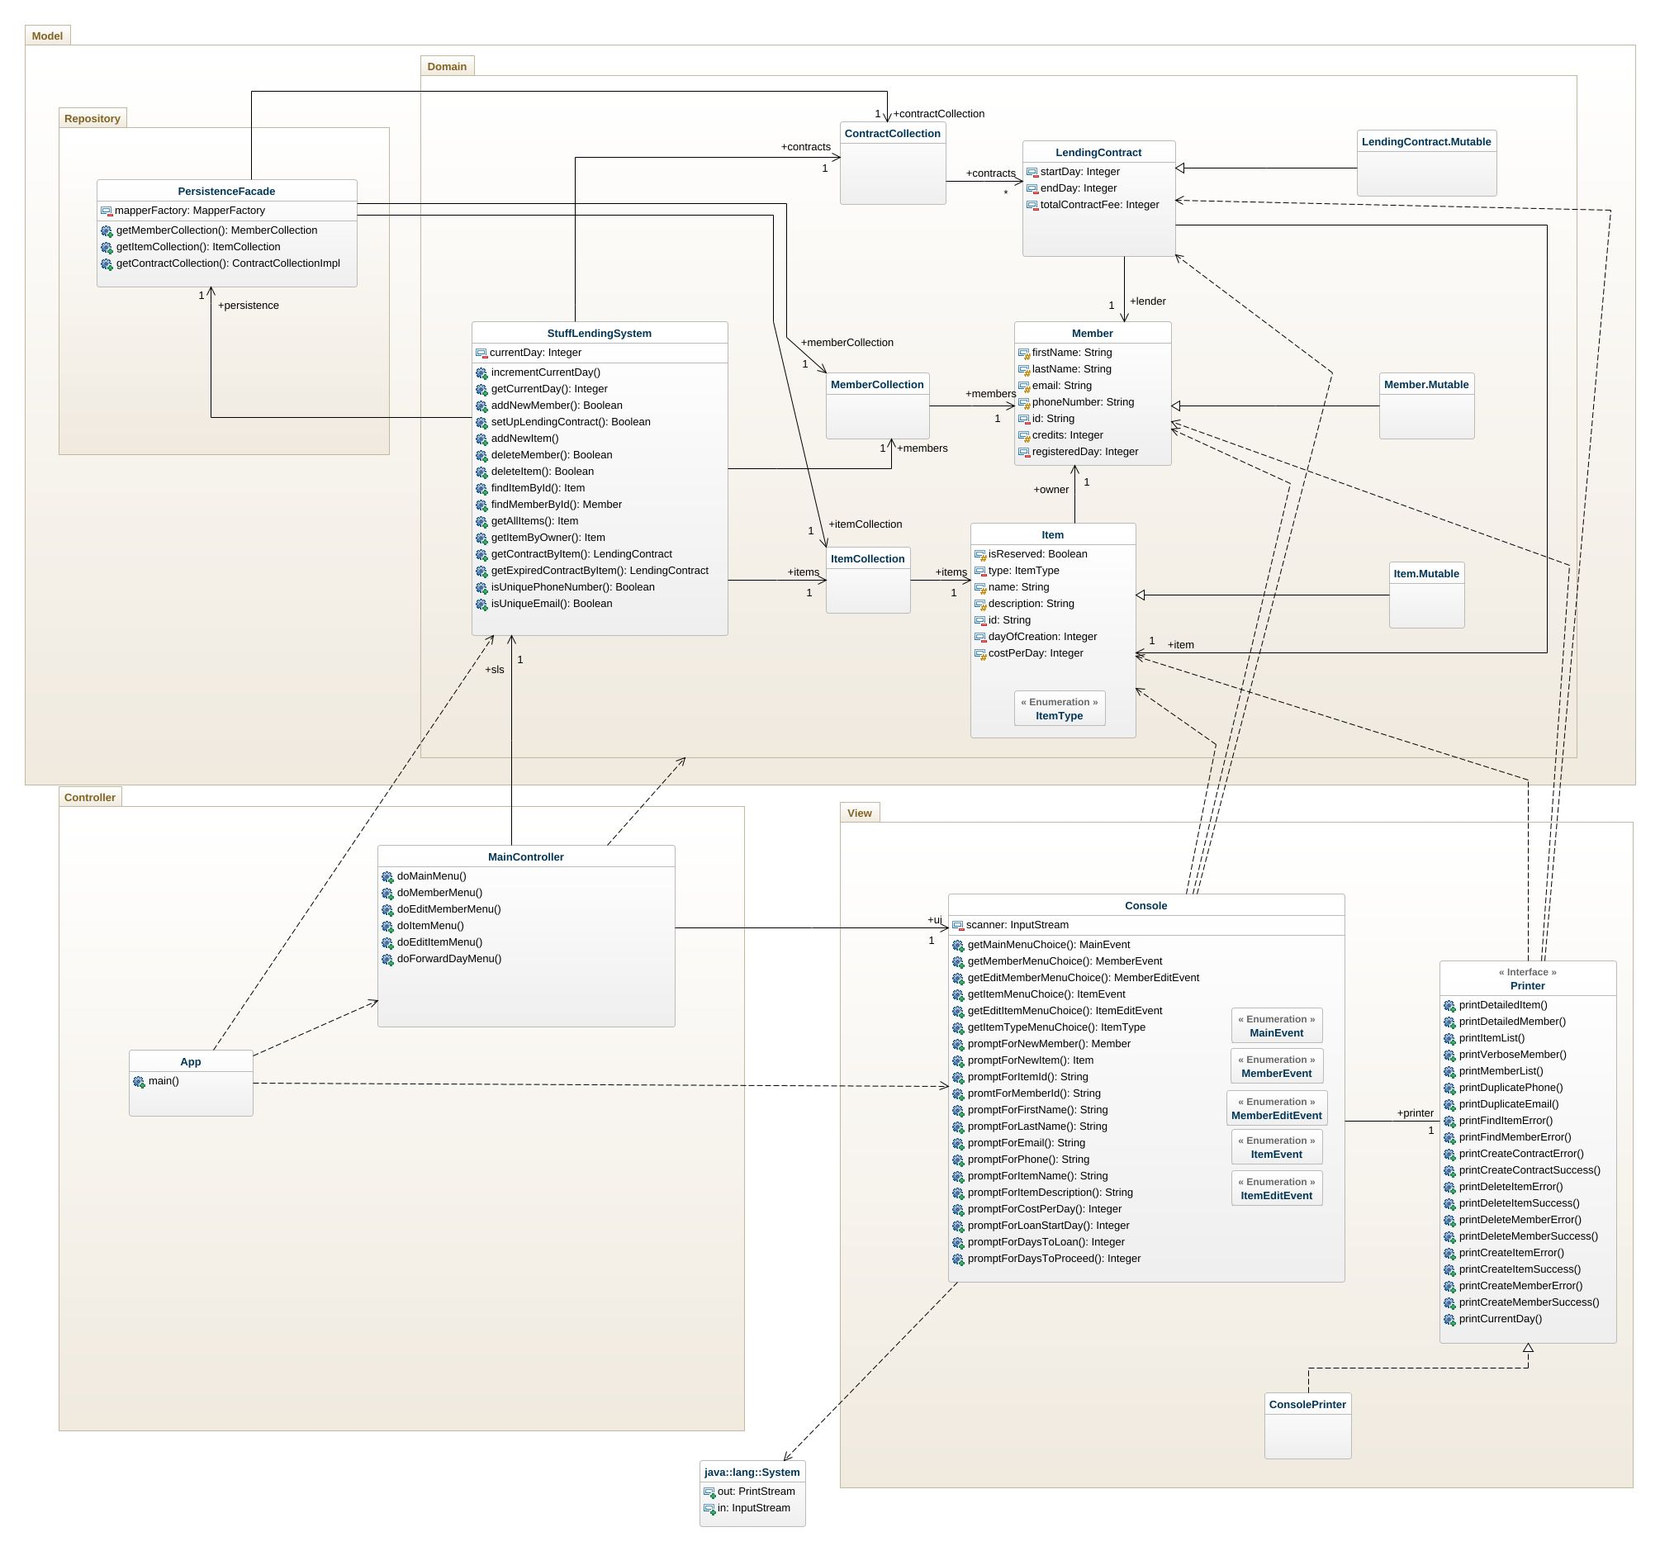
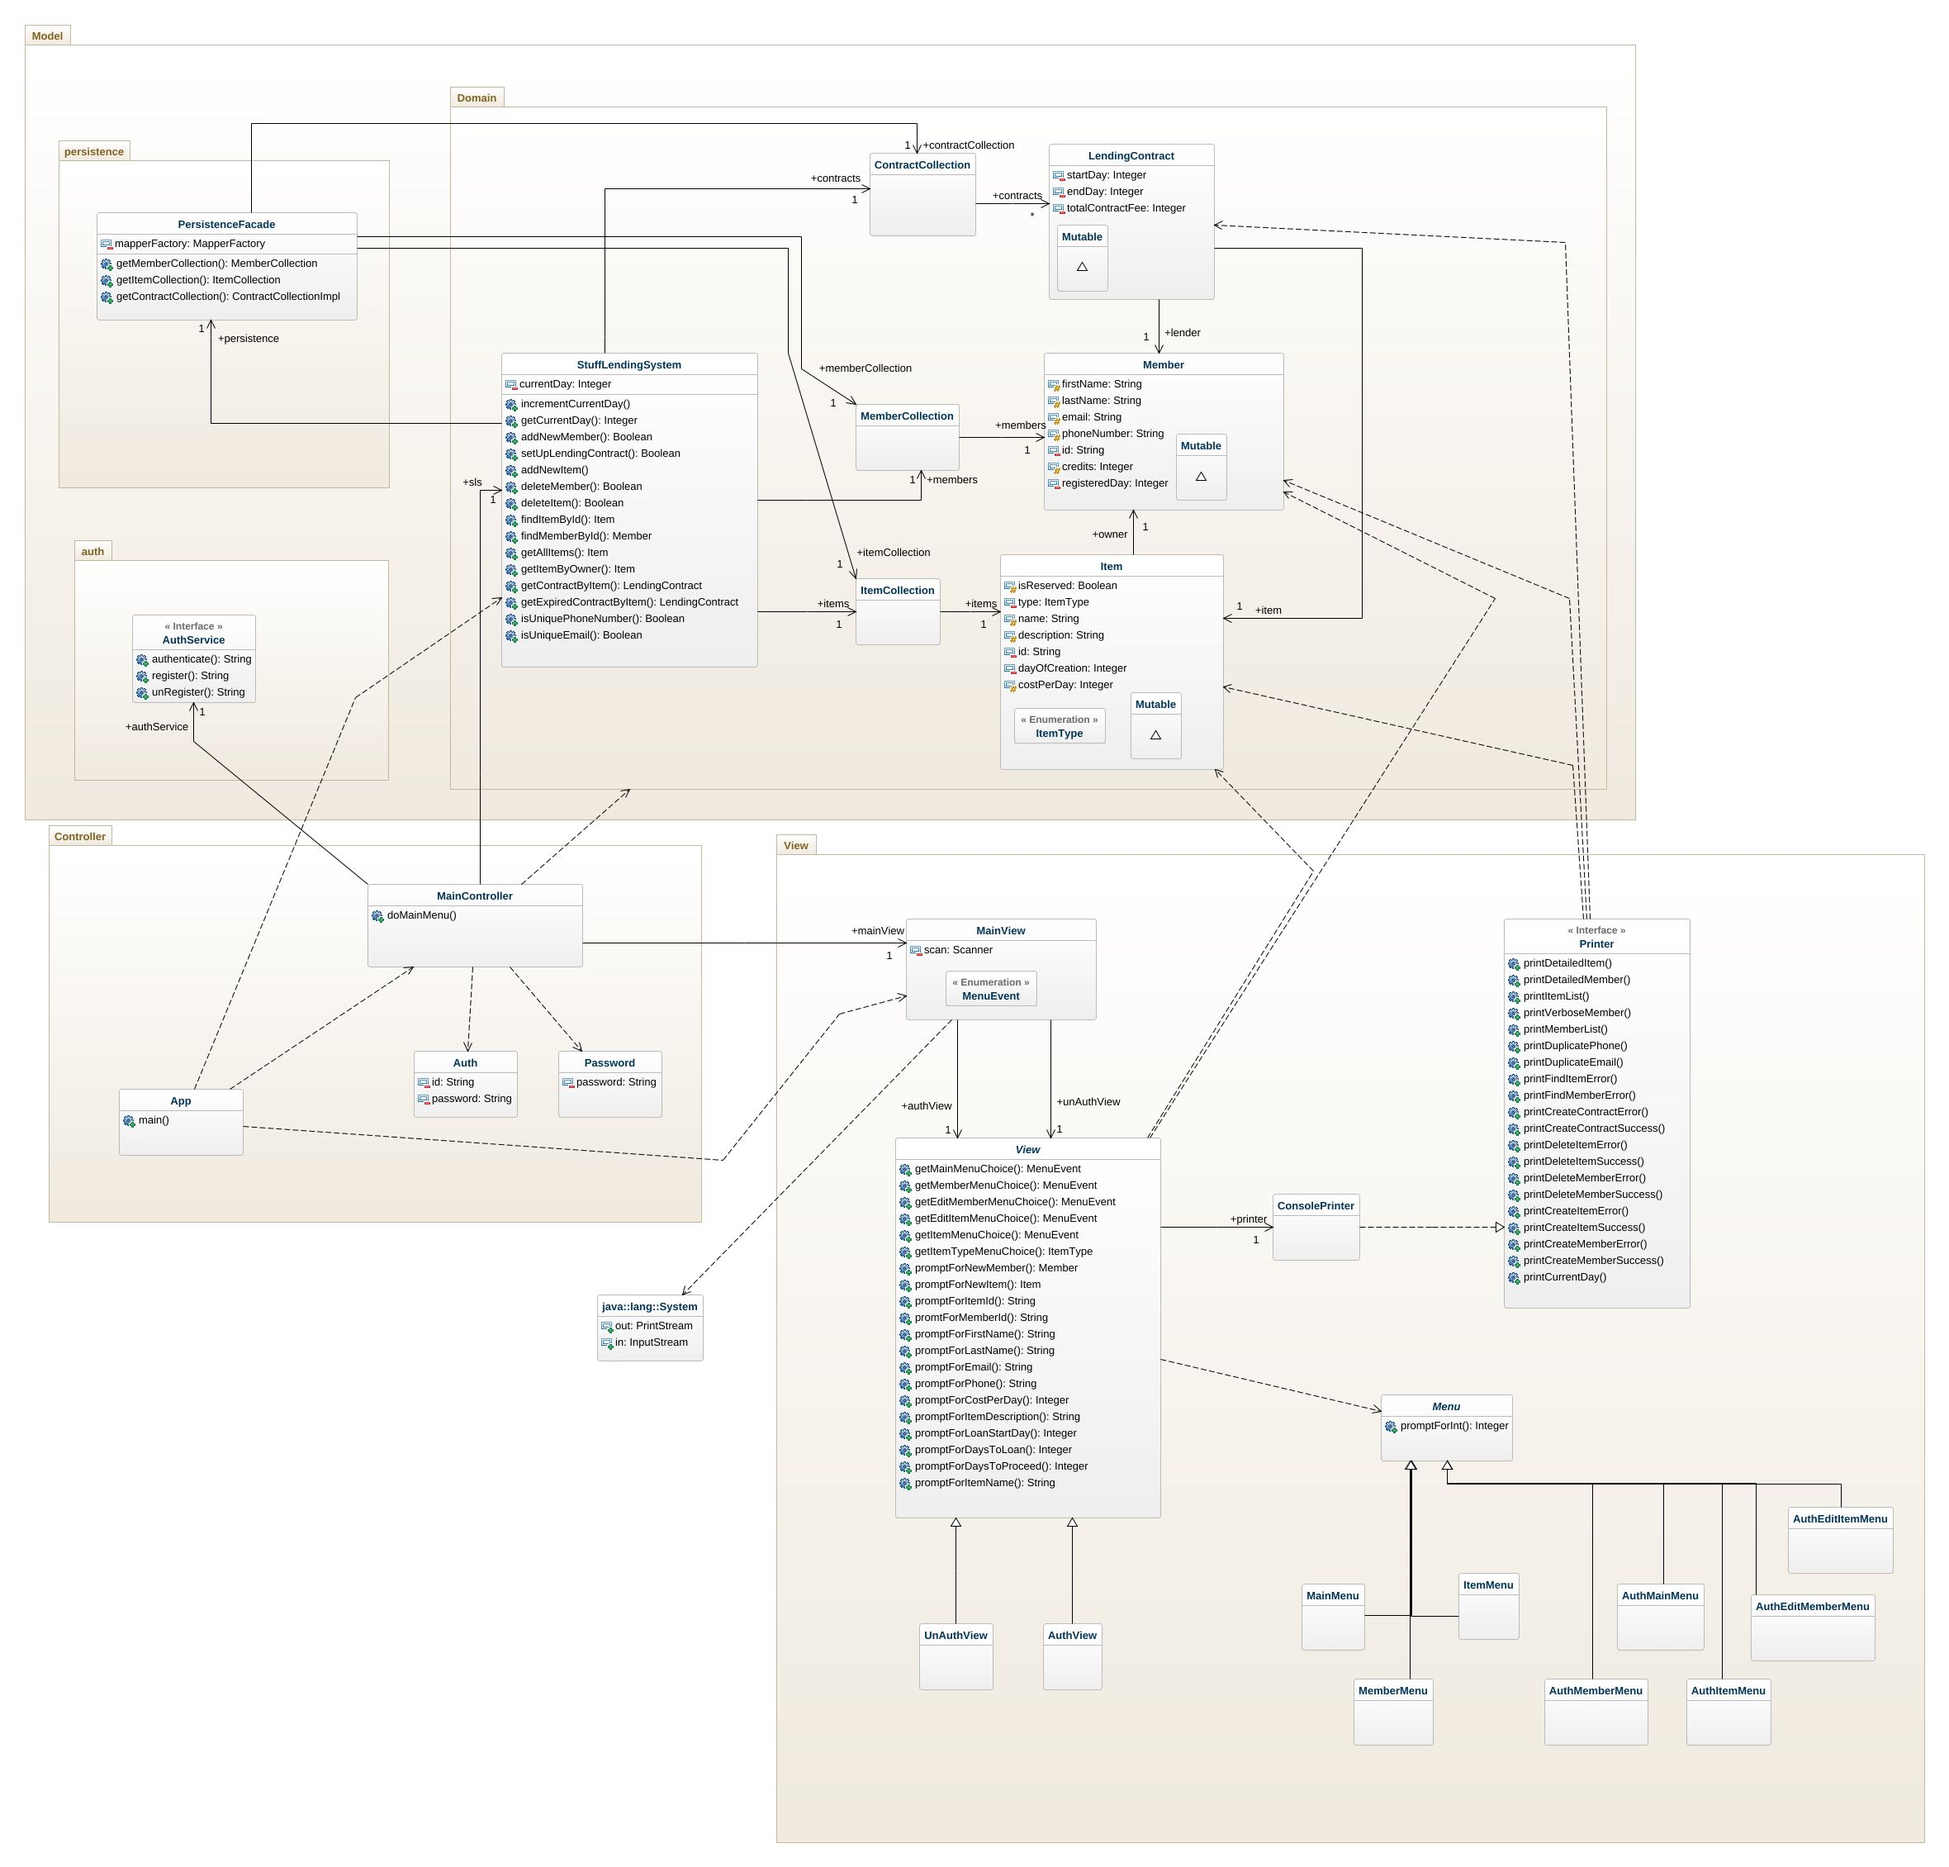
Add updated class diagrams

diff --git a/design.md b/design.md
@@ -10,13 +10,12 @@ The application uses the model-view-controller (MVC) architectural pattern. The 
 
 We provides two different class diagrams. One diagram will show the dependencies between the packages in this MVC-architecture. In this diagram, all classes that the view- and controller package holds are visualized, but the model package is scaled down to get a better overview of the dependencies. 
 
-Since we do not have any dependencies going <i>from</i> the model, the second diagram does only contain the model package, and will visualize both domain- and repository package in detail. 
+Since we do not have any dependencies going <i>from</i> the model, the second diagram does only contain the model package, and will visualize both domain-, persistence- and auth-package in detail. 
 
 ### Class Diagram
-Please provide at least one class diagram according to the assignment requirments.
 
-![model class diagram](img/class-diagram-Model.jpeg)
 ![package class diagram](img/class-diagram-package-view.jpeg)
+![model class diagram](img/class-diagram-Model.jpeg)
 
 ### Sequence Diagram
 The user has selected `Add member` from the `Member menu` in the system and the sequence that follows is illustrated below. <br>
